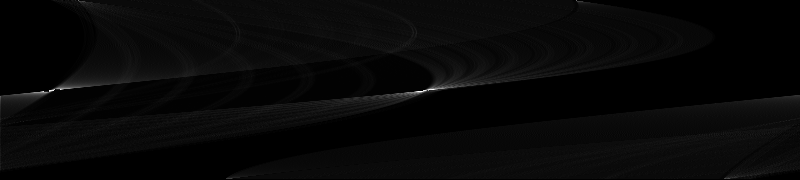
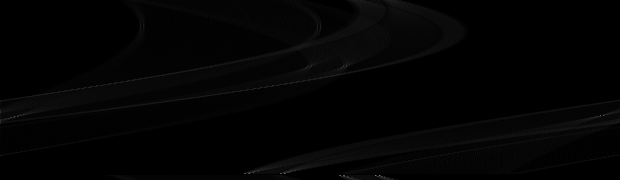
push soutenance

diff --git a/src/ImageProcessing/hough-transform.c b/src/ImageProcessing/hough-transform.c
@@ -8,7 +8,7 @@
 #include <math.h>
 #include <stdlib.h>
 
-int hough_transform(SDL_Surface * image, int pas)
+SDL_surface* hough_transform(SDL_Surface * image, int pas)
 {
     int R = sqrt(image->h*image->h+image->w*image->w);
 
@@ -67,3 +67,92 @@ int hough_transform(SDL_Surface * image, int pas)
 
     return 1;
 }
+
+void draw_line(SDL_Surface* image, int x1, int y1, int x2, int y2)
+{
+    SDL_LockSurface(image);
+
+    Uint32 color = SDL_MapRGBA(image->format, 255, 0, 0, 255);
+
+    int dx = abs(x2 - x1);
+    int dy = abs(y2 - y1);
+    int sx, sy;
+
+    if (x1 < x2) 
+    {
+        sx = 1;
+    } 
+    else 
+    {
+        sx = -1;
+    }
+
+    if (y1 < y2) 
+    {
+        sy = 1;
+    } 
+    else 
+    {
+        sy = -1;
+    }
+
+    int err = dx - dy;
+    int current_x = x1;
+    int current_y = y1;
+
+    while (current_x != x2 || current_y != y2) 
+    {
+        Uint8 *pixel = (Uint8 *)image->pixels + current_y * image->pitch 
+            + current_x * 4;
+
+        *(Uint32 *)pixel = color;
+
+        int err2 = 2 * err;
+        if (err2 > -dy) 
+        {
+            err -= dy;
+            current_x += sx;
+        }
+        if (err2 < dx) 
+        {
+            err += dx;
+            current_y += sy;
+        }
+    }
+
+    SDL_UnlockSurface(image);
+}
+
+void draw_hough_line(SDL_Surface* image, SDL_Surface* hough_pic, int seuil)
+{ 
+    int R = sqrt(image->h*image->h+image->w*image->w);
+
+    const SDL_PixelFormat* format = image->format;
+
+    Uint32* mat = hough_pic->pixels;
+
+    Uint8 r,g,b,a;
+
+    for (int y = 0; y<hough_pic->h; ++y) 
+    {
+        for (int x =0; x<hough_pic->w; ++x) 
+        {
+            SDL_GetRGBA(mat[y*hough_pic->w +x],format, &r, &g, &b, &a);
+            
+            if (r>seuil) 
+            {
+                
+            }
+            
+            mat[y*hough_pic->w + x] = SDL_MapRGBA(image->format, 0, 
+                    0, 0, 255);
+        }
+    }
+
+}
+
+
+
+
+
+

diff --git a/src/ImageProcessing/testmain.c b/src/ImageProcessing/testmain.c
@@ -27,7 +27,7 @@ int main(int argc, char *argv[])
 
     SDL_PixelFormat* format = SDL_AllocFormat(SDL_PIXELFORMAT_RGBA8888);
     SDL_Surface *image_converted = SDL_ConvertSurface(image, format, 0);
-    SDL_Surface *image_converted1 = SDL_ConvertSurface(image, format, 0);
+//    SDL_Surface *image_converted1 = SDL_ConvertSurface(image, format, 0);
     SDL_FreeSurface(image);
 
 
@@ -43,8 +43,9 @@ int main(int argc, char *argv[])
     //image_converted1 = Orientation_Gradian(image_converted);
     //image_converted = Supp_Maxima(image_converted, image_converted1);
     //Thresholdhysteresis(image_converted);
-    image_converted = Canny(image_converted);
-    hough_transform(image_converted, 45);
+//    image_converted = Canny(image_converted);
+    hough_transform(image_converted, 5);
+    //draw_line(image_converted, 0, 371, 497, 0);
     //GaussianBlur(image_converted);
 
     if (IMG_SavePNG(image_converted, argv[2]) != 0) 
@@ -53,7 +54,7 @@ int main(int argc, char *argv[])
     }
 
     SDL_FreeSurface(image_converted);
-    SDL_FreeSurface(image_converted1);
+//    SDL_FreeSurface(image_converted1);
 
     IMG_Quit();
     SDL_Quit();

diff --git a/src/ImageProcessing/ImageProcess.h b/src/ImageProcessing/ImageProcess.h
@@ -33,3 +33,5 @@ void Thresholdhysteresis(SDL_Surface* image);
 Uint8 ComputeSeuil(SDL_Surface* image);
 
 int hough_transform(SDL_Surface* image, int pas);
+
+void draw_line(SDL_Surface* image, int x1, int y1, int x2, int y2);
